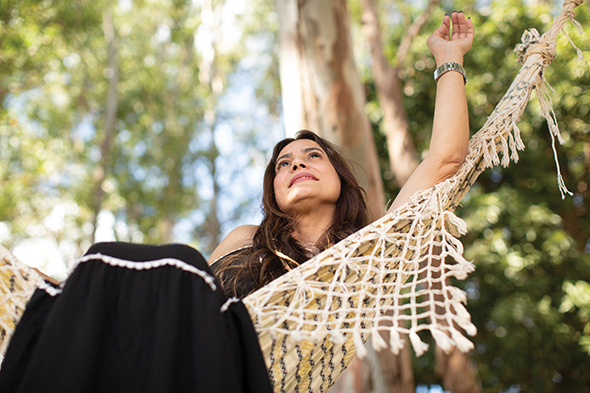
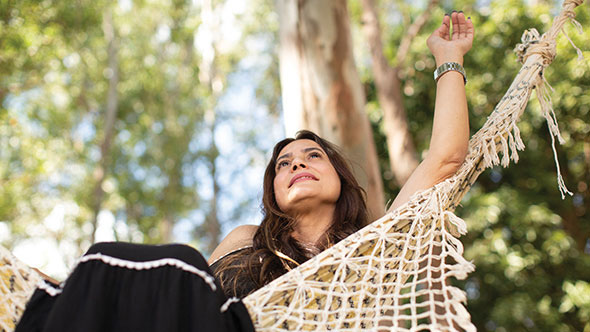
updated vanessa
resized vanessa fotos

diff --git a/13_wanessa_campos.html b/13_wanessa_campos.html
@@ -192,7 +192,7 @@
     "images/galeria/vanessa_01.jpg" alt="vanessa"></a> <a href=
     "images/galeria/vanessa_02.jpg" data-featherlight="image" class=
     "gallery col-3"><img class="facebook" src="images/galeria/vanessa_02.jpg" alt=
-    "Ariadne"></a> <a href="images/galeria/vanessa_03.jpg" data-featherlight="image"
+    "vanessa"></a> <a href="images/galeria/vanessa_03.jpg" data-featherlight="image"
     class="gallery col-3"><img class="facebook" src="images/galeria/vanessa_03.jpg" alt=
     "vanessa"></a> <a href="images/galeria/vanessa_04.jpg" data-featherlight="image"
     class="gallery col-3"><img class="facebook" src="images/galeria/vanessa_04.jpg" alt=
